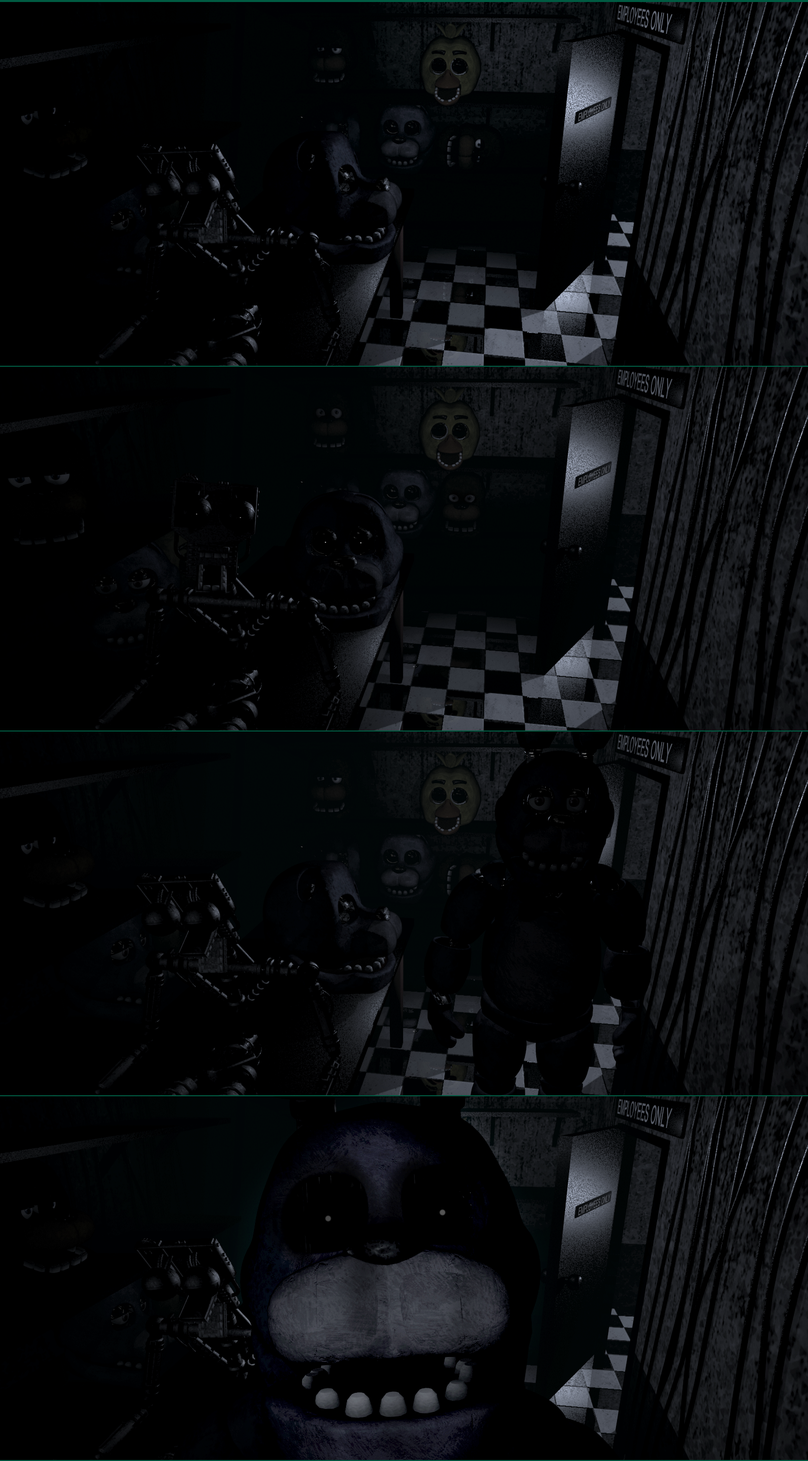
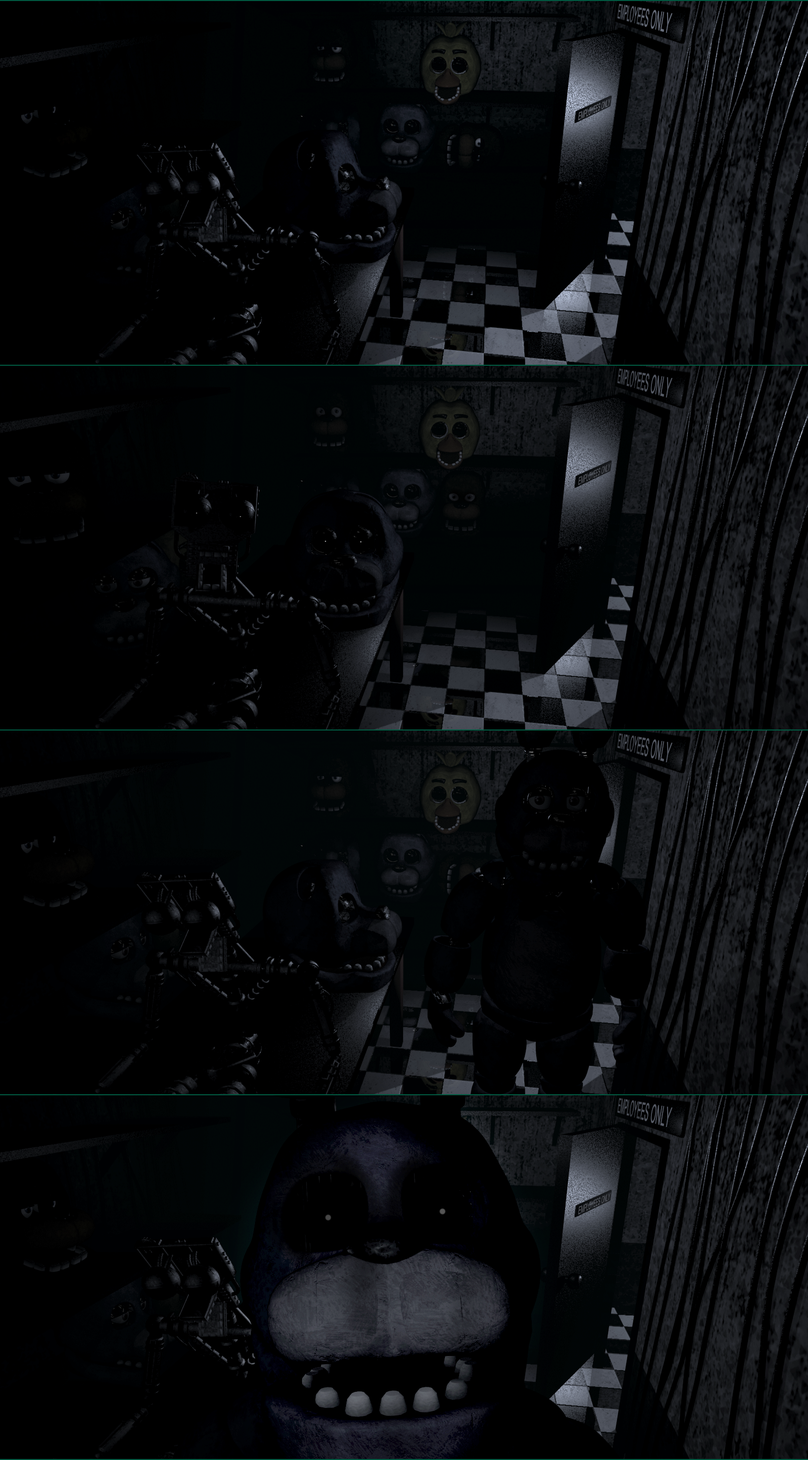
Added new pngs and added office

diff --git a/main.cpp b/main.cpp
@@ -7,6 +7,7 @@
 #include "sounds.h"
 #include "room.h"
 #include "button.h"
+#include "office.h"
 
 int main()
 {
@@ -45,6 +46,8 @@ int main()
     Room room9("rooms/eastHall.png", "East Hall A", 1, 6);
     Room room10("rooms/eastHall.png", "East Hall B", 7, 15);
 
+    Office office("rooms/theOffice.png", "The Office", 1);
+
     allRooms.push_back(room1);
     allRooms.push_back(room2);
     allRooms.push_back(room3);
@@ -70,7 +73,7 @@ int main()
     cameraButtons.push_back(Button ("", sf::Vector2f(1429, 624), sf::Vector2f(53, 32), sf::Color::Transparent));
     cameraButtons.push_back(Button ("", sf::Vector2f(1429, 664), sf::Vector2f(53, 32), sf::Color::Transparent));
 
-    bool cameraOpen=true;
+    bool cameraOpen=false;
     bool mouseInButton;
     int currentRoom=0;
 
@@ -174,10 +177,7 @@ int main()
             //sf::Vector2i mousePosition = sf::Mouse::getPosition(window);
             sf::Vector2i mPos = sf::Mouse::getPosition(window);
             sf::Vector2f mousePosition = window.mapPixelToCoords(mPos);
-            bool mouseInButton =    mousePosition.x >= button.getPosition().x - button.getGlobalBounds().width/2
-                                    && mousePosition.x <= button.getPosition().x + button.getGlobalBounds().width/2
-                                    && mousePosition.y >= button.getPosition().y - button.getGlobalBounds().height/2
-                                    && mousePosition.y <= button.getPosition().y + button.getGlobalBounds().height/2;
+            bool mouseInButton;
             if(event.type == sf::Event::MouseMoved)
             {
                 if(mouseInButton)
@@ -221,30 +221,23 @@ int main()
                     }
                 }
             }
-        }
-
-
-        sf::Vector2i mPos = sf::Mouse::getPosition(window);
-        sf::Vector2f mousePosition = window.mapPixelToCoords(mPos);
-
-        for(int i=0; i<10; i++)
-        {
-            if(event.type==sf::Event::MouseButtonPressed) {
-                mouseInButton =    mousePosition.x >= cameraButtons[i].getPosition().x - cameraButtons[i].getDimensions().x
-                && mousePosition.x <= cameraButtons[i].getPosition().x + cameraButtons[i].getDimensions().x
-                && mousePosition.y >= cameraButtons[i].getPosition().y - cameraButtons[i].getDimensions().y
-                && mousePosition.y <= cameraButtons[i].getPosition().y + cameraButtons[i].getDimensions().y;
-            
-                if(mouseInButton) {
-                    currentRoom=i;
-                    camSwitch.playSound();
+            if(event.type==sf::Event::KeyPressed) {
+                if(event.key.code==sf::Keyboard::C) {
+                    if(cameraOpen) {
+                        cameraOpen=false;
+                        camOff.playSound();
+                    } else {
+                        cameraOpen=true;
+                        camOn.playSound();
+                    }
                 }
             }
         }
-
-        window.clear();
+        sf::Vector2i mPos = sf::Mouse::getPosition(window);
+        sf::Vector2f mousePosition = window.mapPixelToCoords(mPos);
 
         
+        window.clear();
         
         if(cameraOpen) {
             window.draw(allRooms[currentRoom].getRoomPicture());
@@ -253,16 +246,32 @@ int main()
             {
                 window.draw(cameraButtons[i]);
             }
+
+            for(int i=0; i<10; i++)
+            {
+                if(event.type==sf::Event::MouseButtonPressed) {
+                    mouseInButton =    mousePosition.x >= cameraButtons[i].getPosition().x - cameraButtons[i].getDimensions().x
+                    && mousePosition.x <= cameraButtons[i].getPosition().x + cameraButtons[i].getDimensions().x
+                    && mousePosition.y >= cameraButtons[i].getPosition().y - cameraButtons[i].getDimensions().y
+                    && mousePosition.y <= cameraButtons[i].getPosition().y + cameraButtons[i].getDimensions().y;
+                
+                    if(mouseInButton) {
+                        currentRoom=i;
+                        camSwitch.playSound();
+                    }
+                }
+            }
+
         } else {
-            
+            window.draw(office.getRoomPicture());
         }
         float i = elapsed;
-        if (elapsed >= 35.f && !bonnieScareTriggered)
-        {
-            jumpscare = true;
-            cameraOpen=false;
-            bonnieScareTriggered=true;
-        }
+        // if (elapsed >= 35.f && !bonnieScareTriggered)
+        // {
+        //     jumpscare = true;
+        //     cameraOpen=false;
+        //     bonnieScareTriggered=true;
+        // }
         if (jumpscare==true)
         {
             static bool soundPlayed = false;

diff --git a/office.cpp b/office.cpp
@@ -1,0 +1,21 @@
+#include "office.h"
+
+
+Office::Office(std::string textureName, std::string name, int defaultFrame)
+{
+    sf::IntRect defaultTexture(0, 2*(defaultFrame+1)+720*(defaultFrame-1), 1600, 720);
+    sf::IntRect leftTexture(0, 2*(4)+720*(2), 1600, 720);
+    sf::IntRect rightTexture(0, 2*(5)+720*(3), 1600, 720);
+
+    if(!mDefaultState.loadFromFile(textureName, defaultTexture)) {
+        std::cerr<<"Error loading texture\n";
+        exit(1);
+    }
+    mStateShown.setTexture(mDefaultState);
+    mRoomName=name;
+}
+
+sf::Sprite Office::getRoomPicture()
+{
+    return mStateShown;
+}

diff --git a/office.h b/office.h
@@ -1,0 +1,25 @@
+#ifndef OFFICE_H
+#define OFFICE_H
+#include "room.h"
+
+class Office{
+public:
+    Office(std::string textureName, std::string name, int defaultFrame);
+    sf::Sprite getRoomPicture();
+
+
+private:
+    sf::Texture mDefaultState;
+    sf::Texture leftLightOn;
+    sf::Texture rightLightOn;
+    sf::Sprite mStateShown;
+    std::string mRoomName;
+
+
+
+
+};
+
+
+
+#endif
